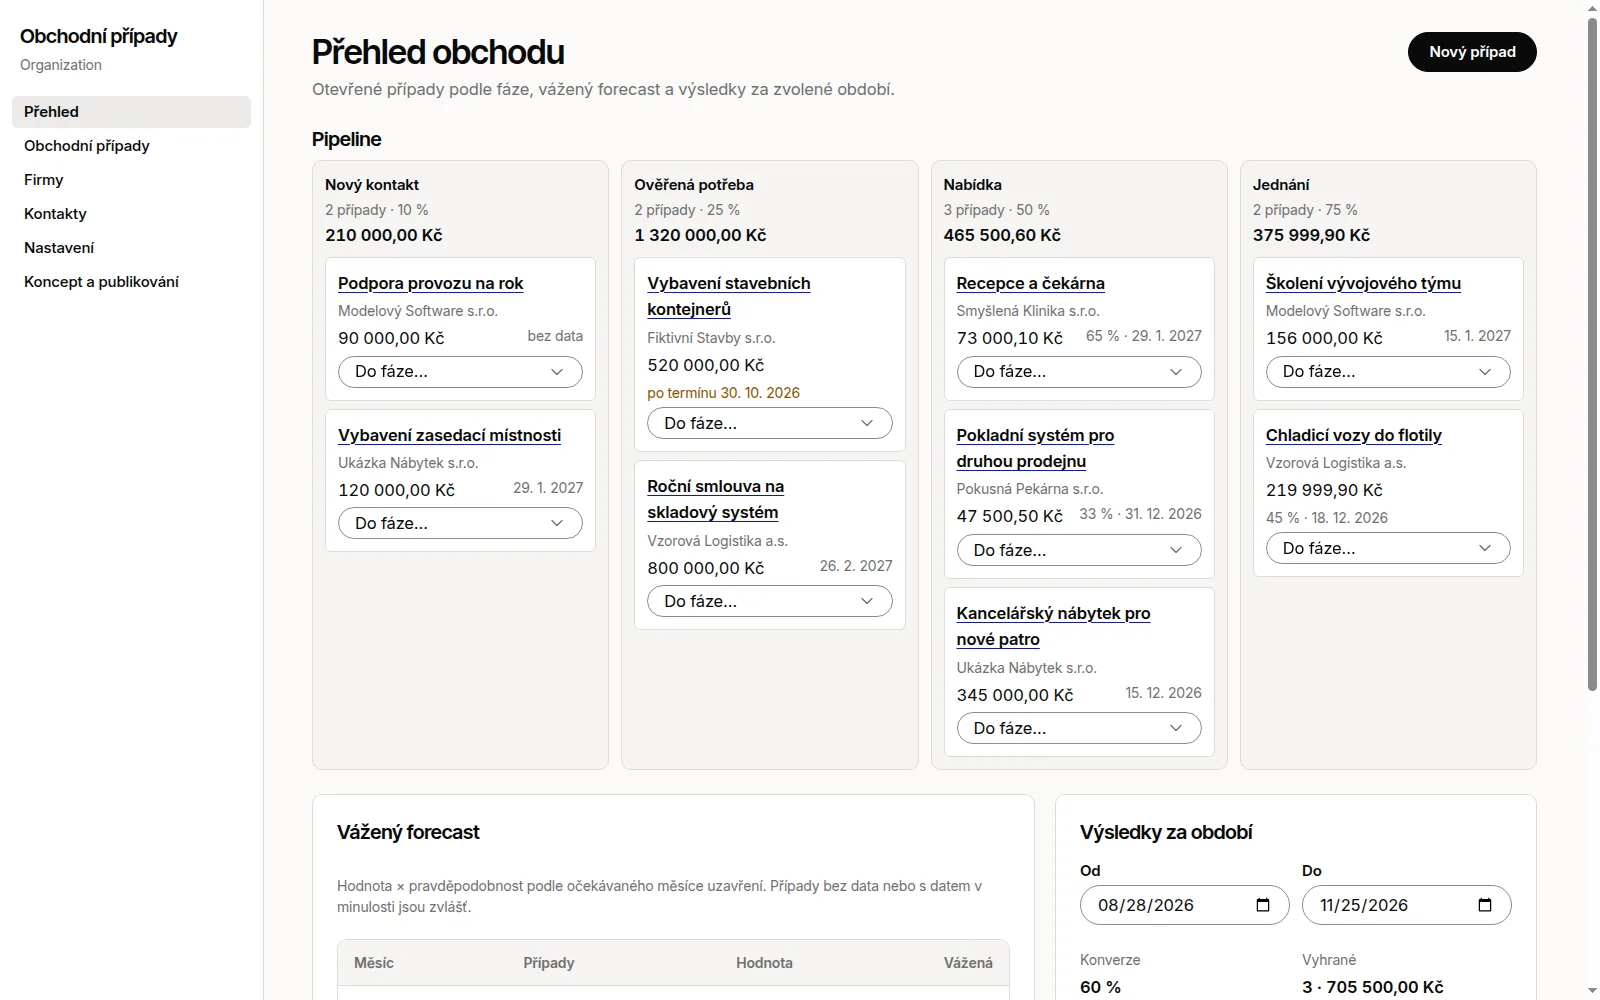
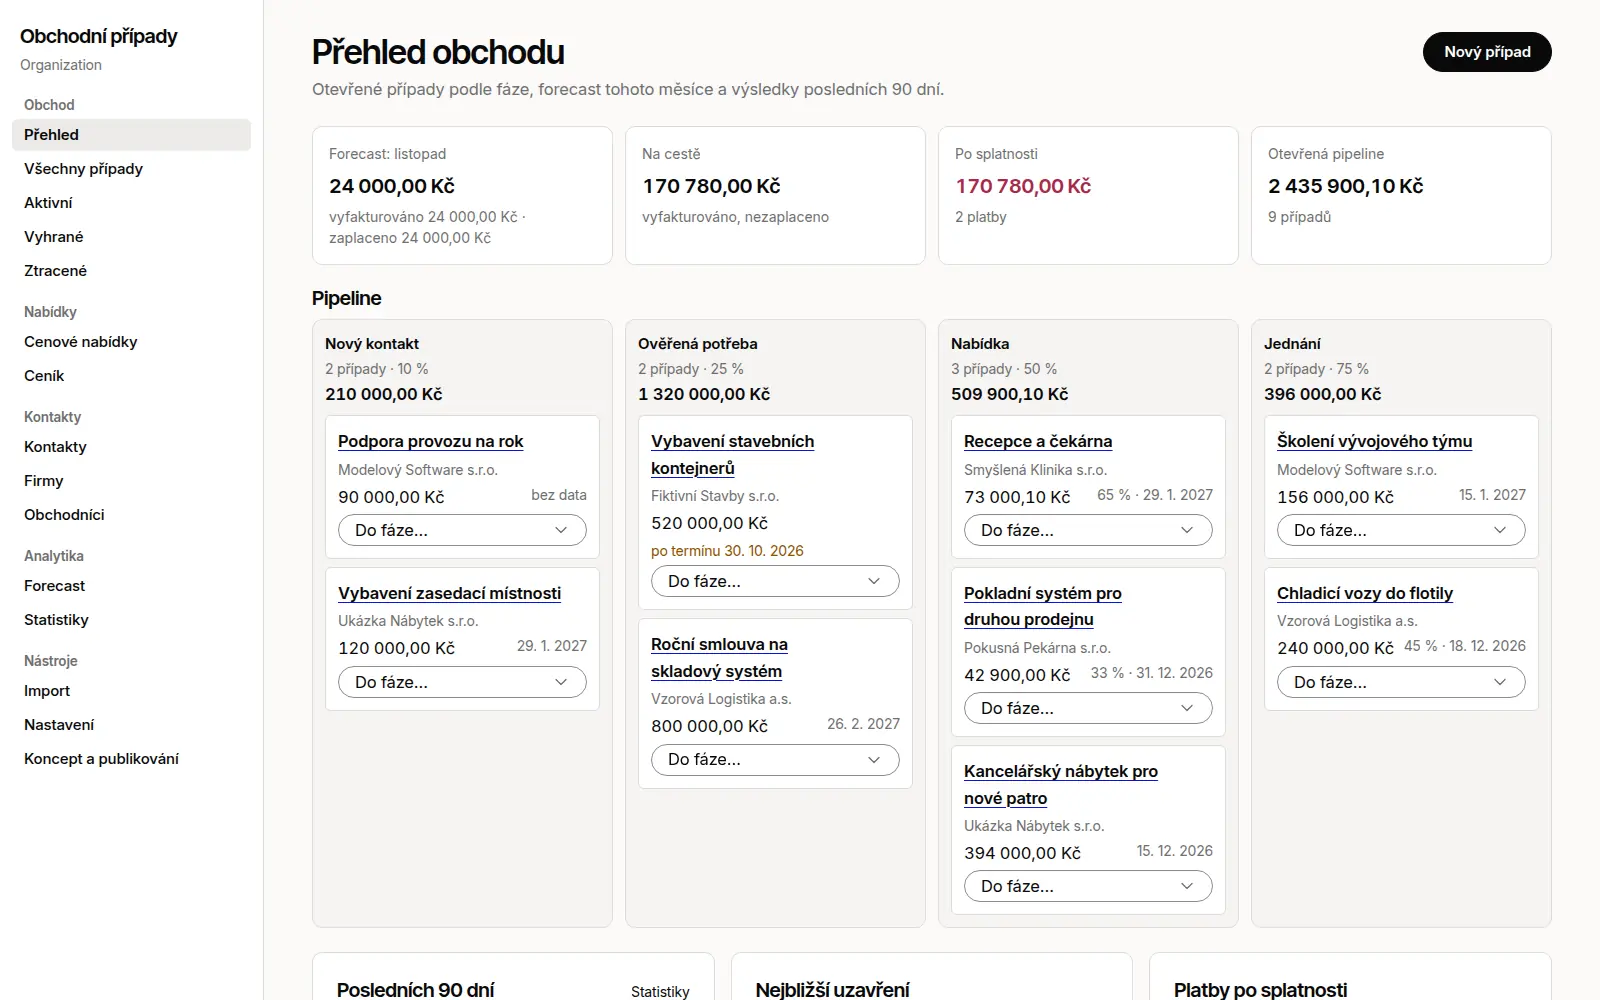
Release 0.2.0
New screenshots of 0.2.0 in Czech and English (overview, deals, a won
deal with its payment plan, a quote, the forecast, the statistics),
CHANGELOG 0.2.0 under a new empty Unreleased, and the version of the App.

diff --git a/app/v3/tests/template.test.ts b/app/v3/tests/template.test.ts
@@ -454,11 +454,12 @@ describe.skipIf(!TEMPLATE)("template contract (skipped in an adopted Module)", (
         .sort();
     const cs = shots("cs");
     expect(cs).toEqual([
-      "company.webp",
       "deal.webp",
       "deals.webp",
+      "forecast.webp",
       "overview.webp",
-      "settings.webp",
+      "quote.webp",
+      "stats.webp",
     ]);
     expect(shots("en")).toEqual(cs);
     const readme = read("README.md");

diff --git a/README.md b/README.md
@@ -9,7 +9,7 @@ and a template of the Lazurio Marketplace, published by LazurioTemplates as the
 public upstream `LazurioTemplates/deals` under the MIT license. In Czech it is
 called „Obchodní případy“.
 
-![The overview: the open pipeline by stage, the weighted forecast and the results of a period](docs/screenshots/en/overview.webp)
+![The overview: this month's forecast, what is on the way and overdue, the open pipeline by stage](docs/screenshots/en/overview.webp)
 
 - **Pipeline.** Stages in the Organization's order, each with a probability,
   plus exactly one won and one lost stage, all data in the settings. Deals
@@ -64,7 +64,7 @@ called „Obchodní případy“.
   records in business language and publishes them as one change to the
   Organization's data repository, or returns them.
 
-![Přehled: otevřené obchodní případy podle fáze, vážený forecast a výsledky období](docs/screenshots/cs/overview.webp)
+![Přehled: forecast tohoto měsíce, co je na cestě a po splatnosti, otevřená pipeline podle fáze](docs/screenshots/cs/overview.webp)
 
 The App speaks Czech or English: `?lang=` in the address first, then the
 language of the person's Lazurio profile where Lazurio hands it to the page
@@ -161,8 +161,9 @@ or sent without the person's instruction. An Organization on 0.1.x takes
 | Overview | [`cs/overview.webp`](docs/screenshots/cs/overview.webp) | [`en/overview.webp`](docs/screenshots/en/overview.webp) |
 | Deals | [`cs/deals.webp`](docs/screenshots/cs/deals.webp) | [`en/deals.webp`](docs/screenshots/en/deals.webp) |
 | A deal with its activities | [`cs/deal.webp`](docs/screenshots/cs/deal.webp) | [`en/deal.webp`](docs/screenshots/en/deal.webp) |
-| A company with its deals and contacts | [`cs/company.webp`](docs/screenshots/cs/company.webp) | [`en/company.webp`](docs/screenshots/en/company.webp) |
-| Settings of the pipeline | [`cs/settings.webp`](docs/screenshots/cs/settings.webp) | [`en/settings.webp`](docs/screenshots/en/settings.webp) |
+| A quote in the editor | [`cs/quote.webp`](docs/screenshots/cs/quote.webp) | [`en/quote.webp`](docs/screenshots/en/quote.webp) |
+| The forecast of payment plans | [`cs/forecast.webp`](docs/screenshots/cs/forecast.webp) | [`en/forecast.webp`](docs/screenshots/en/forecast.webp) |
+| Statistics against the previous period | [`cs/stats.webp`](docs/screenshots/cs/stats.webp) | [`en/stats.webp`](docs/screenshots/en/stats.webp) |
 
 The navigation groups the pages in sections: Obchod / Sales (the overview and
 the deals by tab), Nabídky / Quotes (the quotes with their print view, the

diff --git a/CHANGELOG.md b/CHANGELOG.md
@@ -2,6 +2,8 @@
 
 ## Unreleased
 
+## 0.2.0 — 2026-11-26
+
 0.2.0 brings Deals to the structure of a mature sales pipeline: salespeople
 as records, a price list, quotes with revisions, a forecast that is the
 payment plans of won deals, statistics against the previous period, a record
